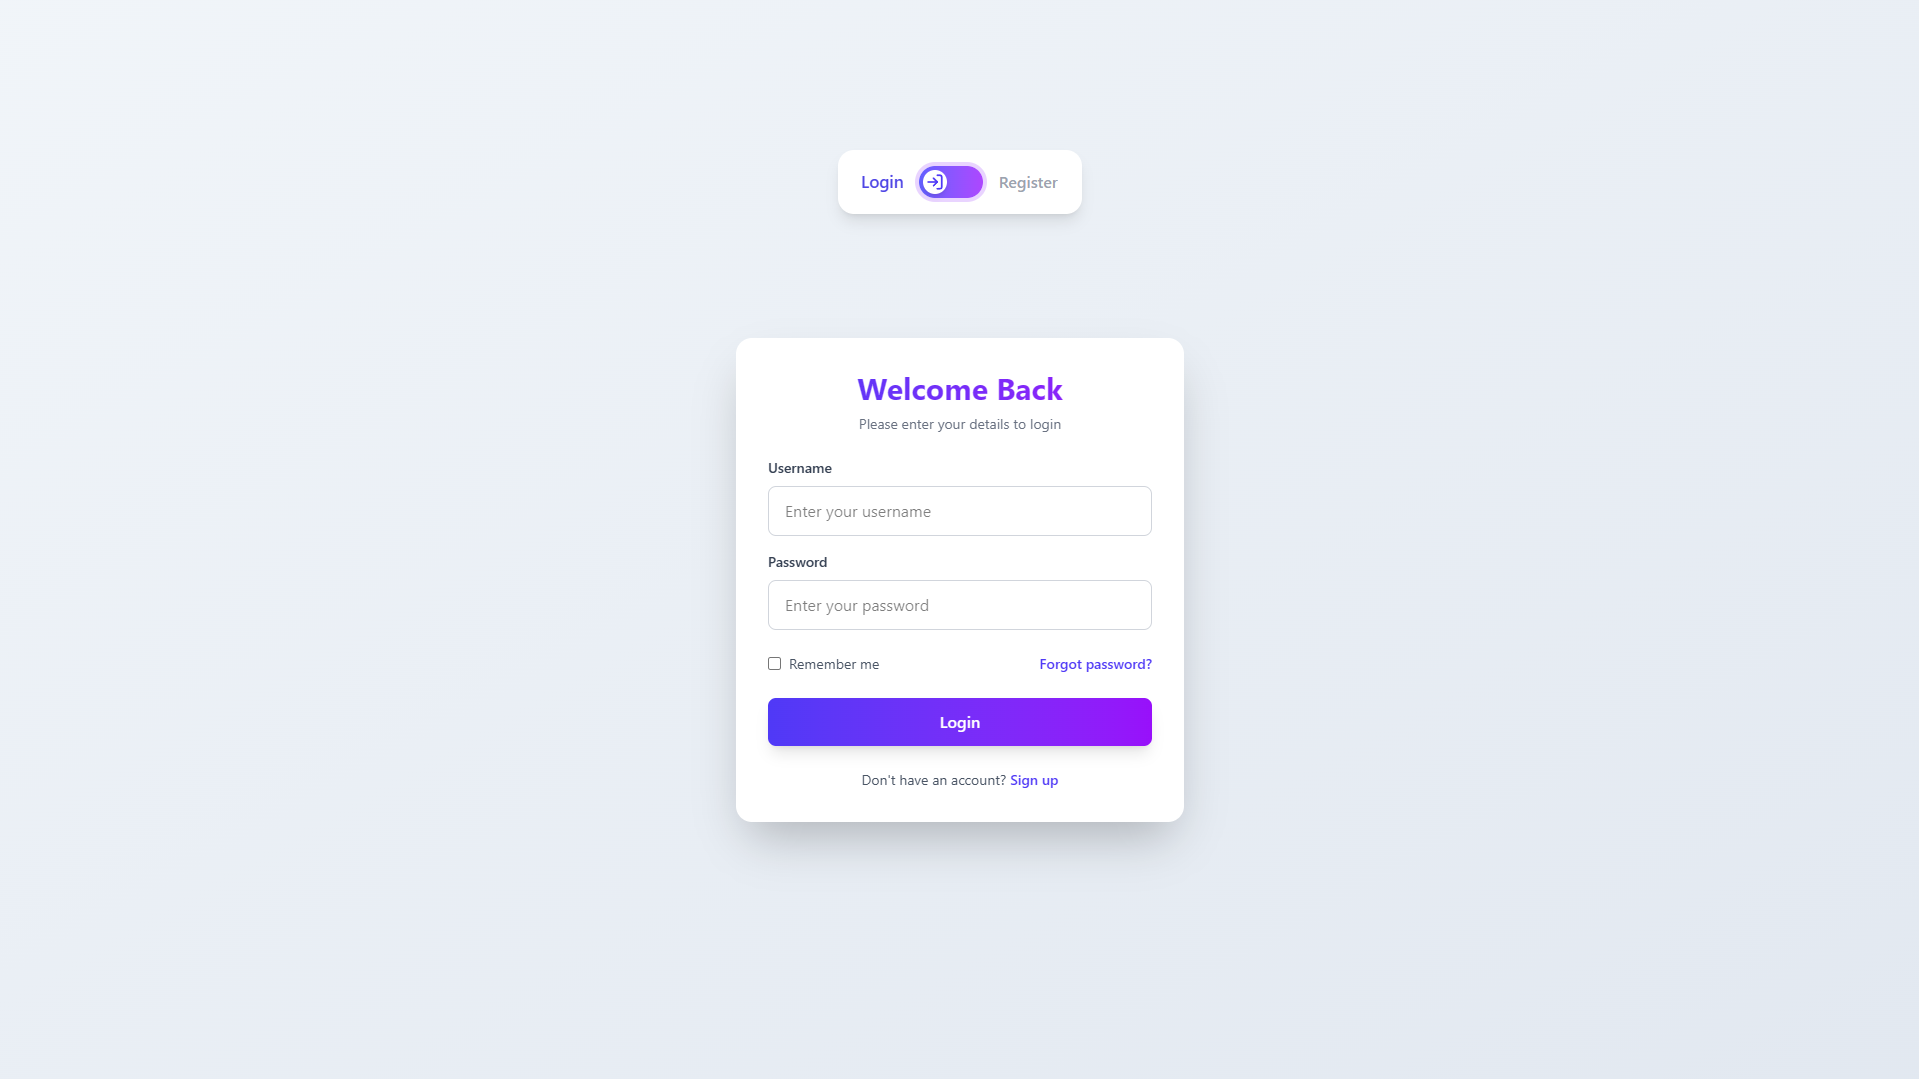
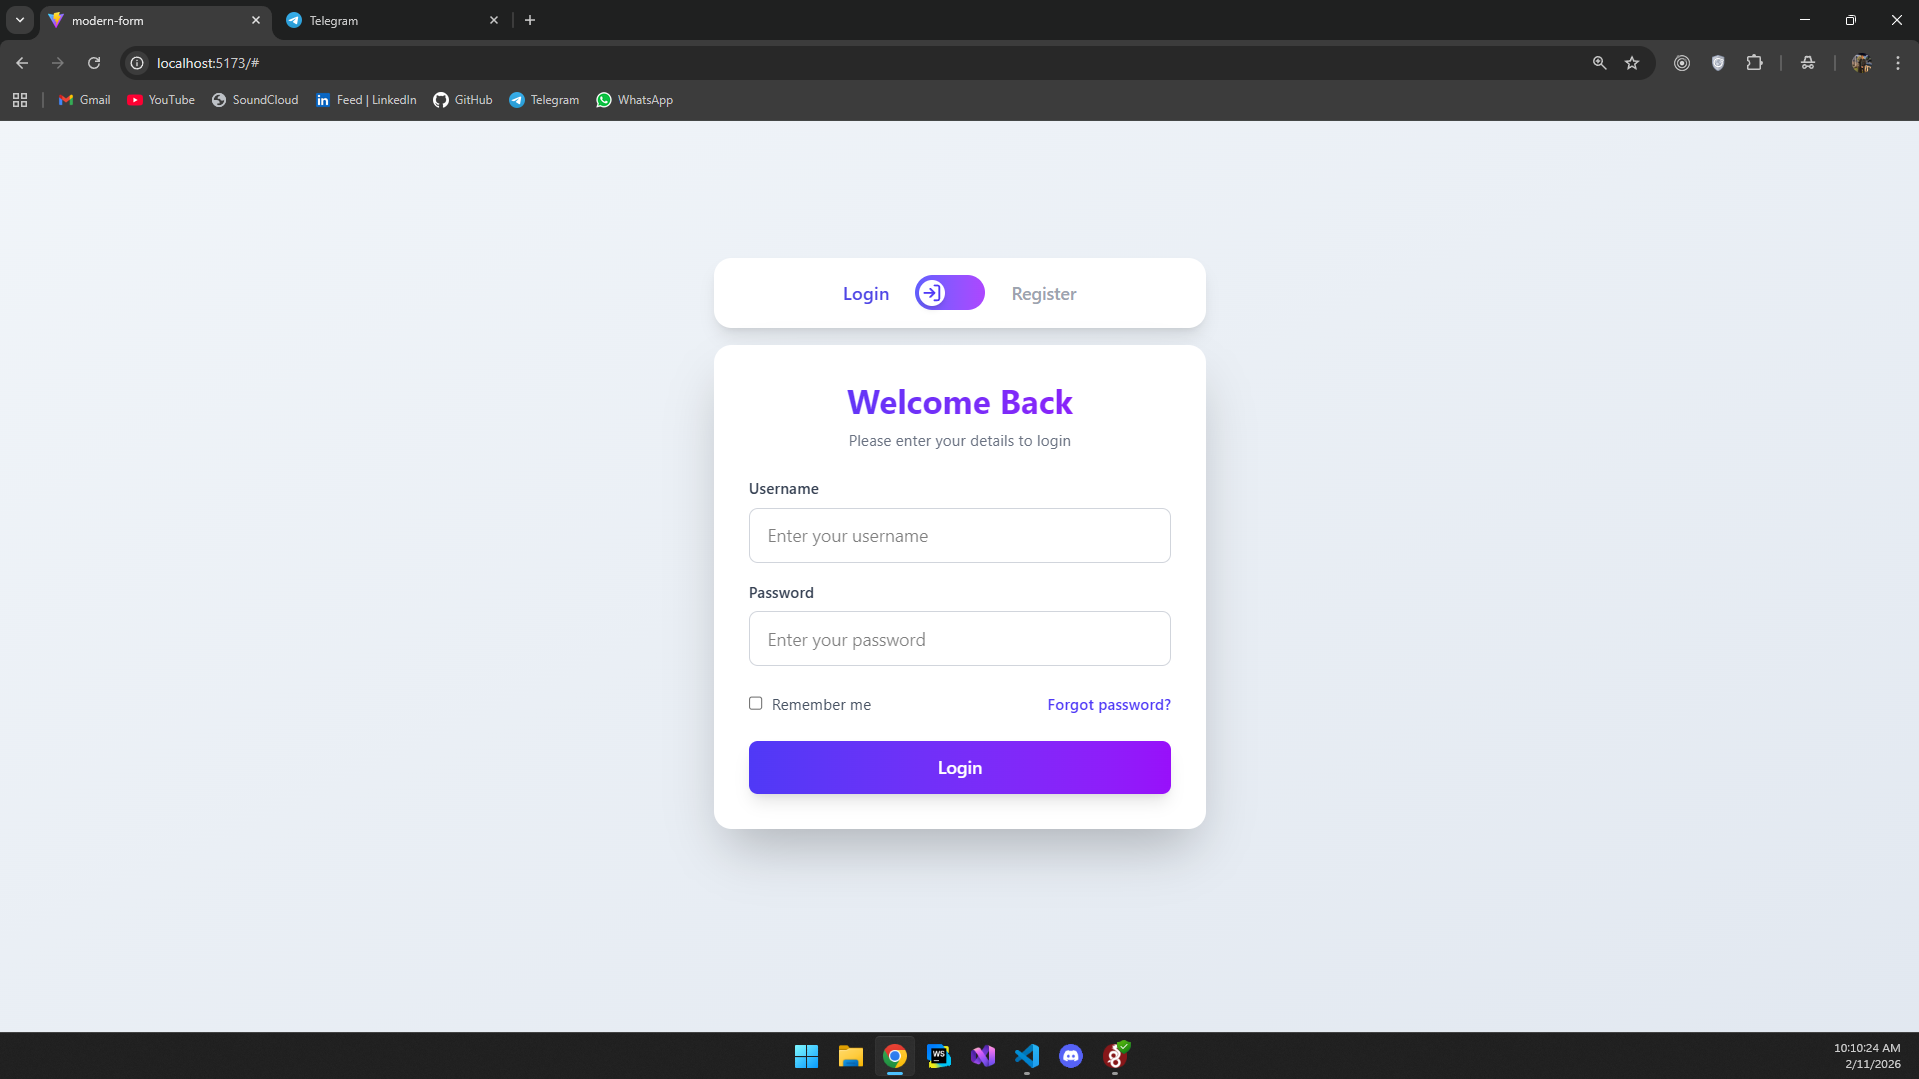
change readme pictures

diff --git a/README.md b/README.md
@@ -2,8 +2,8 @@
 
 3D flip authentication UI with animated transition between login and register forms.
 
-![Preview](./public//screenshots/Login.png)
-![Preview](./public//screenshots/Register.png)
+![Preview](./public/screenshots/Login.png)
+![Preview](./public/screenshots/Register.png)
 
 ## Features
 
